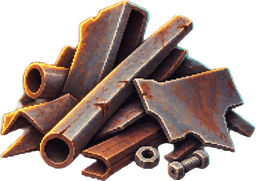
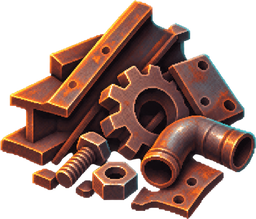
Base builder: fourth art batch (sandbag barricade with damaged/broken states, new bloater/stockpile/neon sign/scrap, three more landmarks)
Claude-Session: https://claude.ai/code/session_01EXCKSXSeTnr9cJgpaM1bsw

diff --git a/proto/base/index.html b/proto/base/index.html
@@ -88,7 +88,7 @@ for(const n of['gunman','shadow','brute','bomber','boss','elite'])SRC['z_'+n]='.
 for(const d of DIRS){SRC['walk_'+d]='../../sprites/warden/walk/'+d+'.png';SRC['rot_'+d]='../../sprites/warden/rot/'+d+'.png'}
 for(const a of['attack','attack2','attack3'])for(const d of['east','south-east'])SRC[a+'_'+d]='../../sprites/warden/'+a+'/'+d+'.png';
 // new art (ChatGPT set, cleaned into art/base): props/buildings/zombies; falls back to the old placeholders when missing
-const ART='../../art/base/',NEWP={a_genX:'03-generator-wrecked',a_wallD:'05-barricade-damaged',a_gateO:'14-gate-open',a_spikesW:'09-spikes-worn',a_relay:'x-power-pylon',a_junk2:'x-junk2',a_gen:'01-generator',a_wall:'04-barricade-intact',a_gate:'13-gate',a_mast:'17-radio-mast',a_clock:'42-street-clock',a_pylonF:'11-pylon-firing',a_parts:'26-pickup-parts',a_pylon:'11-pylon-tesla',a_lamp:'12-floodlight',a_spikes:'08-spikes-new',a_bench:'15-workbench',a_tent:'16-infirmary',a_stock:'18-stockpile',a_rubble:'33-rubble',a_sign:'35-neon-sign-fallen',a_tree:'38-skylight-tree',a_car:'39-car',a_junk:'41-junk',a_scrap:'25-pickup-scrap'};
+const ART='../../art/base/',NEWP={a_wallX:'06-barricade-broken',a_junk3:'x-junk3',a_rub2:'x-rubble-heap2',a_rub3:'x-rubble-heap3',a_genX:'03-generator-wrecked',a_wallD:'05-barricade-damaged',a_gateO:'14-gate-open',a_spikesW:'09-spikes-worn',a_relay:'x-power-pylon',a_junk2:'x-junk2',a_gen:'01-generator',a_wall:'07-wall-reinforced',a_gate:'13-gate',a_mast:'17-radio-mast',a_clock:'42-street-clock',a_pylonF:'11-pylon-firing',a_parts:'26-pickup-parts',a_pylon:'11-pylon-tesla',a_lamp:'12-floodlight',a_spikes:'08-spikes-new',a_bench:'15-workbench',a_tent:'16-infirmary',a_stock:'18-stockpile',a_rubble:'33-rubble',a_sign:'35-neon-sign-fallen',a_tree:'38-skylight-tree',a_car:'39-car',a_junk:'41-junk',a_scrap:'25-pickup-scrap'};
 for(const k in NEWP)SRC['p_'+k]=ART+NEWP[k]+'.png';
 const NEWZ={hound:'x-zombie-dog',walker:'19-zombie-walker',runner:'20-zombie-runner',brute:'21-zombie-brute',bloater:'22-zombie-bloater',boss:'24-zombie-rotking'};for(const k in NEWZ)SRC['nz_'+k]=ART+NEWZ[k]+'.png';
 SRC.ground=ART+'30-ground-concrete.png';SRC.fx_zburst=ART+'45-fx-zombie-burst.png';SRC.fx_bdust=ART+'46-fx-build-dust.png';
@@ -112,8 +112,8 @@ function overgrow(c,amt){const w=c.width,h=c.height;pixels(c,(a,i)=>{const l=.3*
 // zombie rot tint: grey-green flesh, keep glowing eyes
 function rot(c){return pixels(c,(a,i)=>{const r=a[i],gg=a[i+1],b=a[i+2],l=.3*r+.59*gg+.11*b;if(l>170&&r>200&&gg>120)return;a[i]=clamp(l*.62+r*.18,0,255);a[i+1]=clamp(l*.86+gg*.12+8,0,255);a[i+2]=clamp(l*.5+b*.15,0,255)})}
 
-const PROPH={a_genX:30,a_wallD:20,a_gateO:22,a_spikesW:12,a_relay:34,a_junk2:30,a_gen:34,a_wall:20,a_gate:22,a_mast:44,a_clock:42,a_pylonF:34,a_parts:9,a_pylon:34,a_lamp:38,a_spikes:12,a_bench:28,a_tent:32,a_stock:28,a_rubble:24,a_sign:22,a_tree:34,a_car:26,a_junk:30,a_scrap:9,hut:50,crates:19,pylon_p:32,pylon_c:32,chimney:40,gargoyle:30,planter:28,spire:46,tower:58,vent:22,sign:34,antenna:34};
-const PS={};const PROPW={a_genX:46,a_wallD:24,a_gateO:28,a_spikesW:17,a_relay:24,a_junk2:40,a_gen:46,a_wall:22,a_gate:28,a_mast:36,a_clock:28,a_pylonF:30,a_parts:11,a_pylon:20,a_lamp:16,a_spikes:17,a_bench:32,a_tent:34,a_stock:32,a_rubble:50,a_sign:52,a_tree:46,a_car:54,a_junk:40,a_scrap:10};
+const PROPH={a_wallX:16,a_junk3:30,a_rub2:24,a_rub3:24,a_genX:30,a_wallD:20,a_gateO:22,a_spikesW:12,a_relay:34,a_junk2:30,a_gen:34,a_wall:20,a_gate:22,a_mast:44,a_clock:42,a_pylonF:34,a_parts:9,a_pylon:34,a_lamp:38,a_spikes:12,a_bench:28,a_tent:32,a_stock:28,a_rubble:24,a_sign:22,a_tree:34,a_car:26,a_junk:30,a_scrap:9,hut:50,crates:19,pylon_p:32,pylon_c:32,chimney:40,gargoyle:30,planter:28,spire:46,tower:58,vent:22,sign:34,antenna:34};
+const PS={};const PROPW={a_wallX:24,a_junk3:40,a_rub2:50,a_rub3:50,a_genX:46,a_wallD:24,a_gateO:28,a_spikesW:17,a_relay:24,a_junk2:40,a_gen:46,a_wall:22,a_gate:28,a_mast:36,a_clock:28,a_pylonF:30,a_parts:11,a_pylon:20,a_lamp:16,a_spikes:17,a_bench:32,a_tent:34,a_stock:32,a_rubble:50,a_sign:52,a_tree:46,a_car:54,a_junk:40,a_scrap:10};
 const ZDEF={
   walker:{img:'gunman',h:28,nh:30,hp:34,spd:13,dmg:7,bd:8,r:5,rate:1,drop:[2,0],name:'Walker'},
   hound:{img:'shadow',h:16,nh:18,hp:14,spd:42,dmg:4,bd:4,r:4,rate:.55,drop:[1,0],name:'Hound'},
@@ -152,7 +152,7 @@ const BDEF={
   spike:{name:'Spikes',cost:[12,0],uses:36},
   pylon:{name:'Arc Pylon',cost:[22,12],hp:90,img:'a_pylon',old:'pylon_p',range:84,rate:.65,dmg:9},
   lamp:{name:'Lamp',cost:[10,8],hp:70,img:'a_lamp',old:'pylon_c',rad:74}};
-let builds=[],props=[];let core;const WIDE={a_junk2:2,a_mast:2,a_clock:1,a_car:3,a_rubble:3,a_sign:3,a_junk:2,a_tent:2,a_bench:2,a_stock:2,a_tree:3,tower:2,sign:2,antenna:2};const PN=n=>PS[n]?n:n==='a_pylon'?'pylon_p':n==='a_lamp'?'pylon_c':(n==='a_wall'||n==='a_gate')?'crates':n==='a_gen'?'hut':n;
+let builds=[],props=[];let core;const WIDE={a_junk3:2,a_rub2:3,a_rub3:3,a_junk2:2,a_mast:2,a_clock:1,a_car:3,a_rubble:3,a_sign:3,a_junk:2,a_tent:2,a_bench:2,a_stock:2,a_tree:3,tower:2,sign:2,antenna:2};const PN=n=>PS[n]?n:n==='a_pylon'?'pylon_p':n==='a_lamp'?'pylon_c':(n==='a_wall'||n==='a_gate')?'crates':n==='a_gen'?'hut':n;
 function placeB(k,x,y,free){const D=BDEF[k],b={k,tx:x,ty:y,x:x*TS+8,y:y*TS+8,hp:D.hp||1,max:D.hp||1,cd:rnd(),uses:D.uses||0,flash:0,born:T};grid[id(x,y)]=b;builds.push(b);return b}
 function buildMap(){
   // edge rubble ring with gaps at the four gates
@@ -166,7 +166,7 @@ function buildMap(){
   line(7,9,7,14);line(26,9,26,14);line(7,25,7,30);line(26,25,26,30);
   line(11,9,13,11);line(22,9,20,11);line(11,30,13,28);line(22,30,20,28);
   const land=(x,y,n)=>{const p={k:'ruin',tx:x,ty:y,img:n};grid[id(x,y)]=p;props.push(p);for(let i=1;i<(WIDE[n]||1);i++)if(inb(x+i,y)&&!grid[id(x+i,y)])grid[id(x+i,y)]={k:'ruin',tx:x+i,ty:y}};
-  land(2,3,'a_car');land(27,3,'a_junk');land(2,36,'a_junk2');land(27,36,'a_car');land(2,12,'a_tree');land(28,27,'a_tree');land(28,11,'a_sign');land(4,15,'a_clock');land(2,27,'a_rubble');
+  land(2,3,'a_car');land(27,3,'a_junk');land(2,36,'a_junk2');land(27,36,'a_car');land(2,12,'a_tree');land(28,27,'a_tree');land(28,11,'a_sign');land(27,23,'a_rub2');land(6,37,'a_rub3');land(8,3,'a_junk3');land(4,15,'a_clock');land(2,27,'a_rubble');
   // a starter barricade line near the core so the first look is a base, not an empty roof
   [[15,17],[18,17],[15,22],[18,22]].forEach(([x,y])=>placeB('wall',x,y));
   placeB('lamp',14,20);placeB('pylon',19,19);
@@ -335,7 +335,7 @@ let banT=0;function banner(t,s){$('banT').textContent=t;$('banS').textContent=s|
 let tipT=0;function tip(s){$('tip').textContent=s;$('tip').style.opacity=1;tipT=1.6}
 
 /* ---------- building tools ---------- */
-const TOOLS=[{k:'wall',img:'../../art/base/04-barricade-intact.png'},{k:'gate',img:'../../art/base/13-gate.png'},{k:'spike',img:'../../art/base/08-spikes-new.png'},{k:'pylon',img:'../../art/base/11-pylon-tesla.png'},{k:'lamp',img:'../../art/base/12-floodlight.png'},{k:'repair',img:'../../art/base/27-build-icons/02.png'},{k:'remove'}];
+const TOOLS=[{k:'wall',img:'../../art/base/07-wall-reinforced.png'},{k:'gate',img:'../../art/base/13-gate.png'},{k:'spike',img:'../../art/base/08-spikes-new.png'},{k:'pylon',img:'../../art/base/11-pylon-tesla.png'},{k:'lamp',img:'../../art/base/12-floodlight.png'},{k:'repair',img:'../../art/base/27-build-icons/02.png'},{k:'remove'}];
 function makeBar(){const bar=$('bar');bar.innerHTML='';for(const t of TOOLS){const b=document.createElement('button');b.className='bt';b.dataset.k=t.k;const D=BDEF[t.k];
   b.innerHTML=(t.img?'<img src="'+t.img+'">':'<span class="ico">'+(t.k==='spike'?'&#9650;&#9650;':t.k==='repair'?'&#9874;':'&#10005;')+'</span>')+'<b>'+(D?D.name:t.k==='repair'?'Repair':'Remove')+'</b>'+(D?'<em>'+D.cost[0]+(D.cost[1]?' + <u>'+D.cost[1]+'</u>':'')+'</em>':'<em>&nbsp;</em>');
   b.onclick=e=>{e.stopPropagation();pv=null;tool=tool===t.k?null:t.k;syncUI();if(tool)tip(tool==='repair'?'Tap a damaged building':tool==='remove'?'Tap a building to take it down':'Tap a spot in the gold square, then tap again');snd(660,.04,'triangle',.02)};bar.appendChild(b)}}
@@ -412,7 +412,7 @@ function render(){
   // y-sorted world
   const L=[];for(const p of props)L.push([p.ty*TS+14,0,p]);for(const b of builds)if(b.k!=='spike')L.push([b.y+6,1,b]);L.push([core.y,2,core]);for(const z of zs)L.push([z.y,3,z]);L.push([hero.y,4,hero]);L.sort((a,b)=>a[0]-b[0]);
   const ghost=pv&&tool===pv.k&&pv.k!=='spike'?pv:null;if(ghost)L.push([ghost.ty*TS+14,5,ghost]);L.sort((a,b)=>a[0]-b[0]);
-  for(const [,t,o] of L){if(t===5){g.globalAlpha=.6;drawProp(BDEF[o.k].img,o.tx*TS+8,o.ty*TS+14);g.globalAlpha=1;continue}if(t===0){const n=WIDE[o.img]||1;drawProp(o.img,o.tx*TS+n*TS/2,o.ty*TS+15,0,n)}else if(t===1){drawProp(o.k==='pylon'&&PS.a_pylonF&&T-(o.fireT||-9)<.14?'a_pylonF':o.k==='wall'&&PS.a_wallD&&o.hp<o.max*.5?'a_wallD':o.k==='gate'&&PS.a_gateO&&phase==='day'?'a_gateO':BDEF[o.k].img,o.x,o.y+6,o.flash,1);if(o.hp<o.max)bar(o.x,o.y-(PS[PN(BDEF[o.k].img)]||{h:20}).h+4,o.hp/o.max,12)}else if(t===2){drawProp(core.hp<core.max*.4&&PS.a_genX?'a_genX':'a_gen',core.x,core.y,core.flash,2)}else if(t===3)drawZ(o);else drawHero()}
+  for(const [,t,o] of L){if(t===5){g.globalAlpha=.6;drawProp(BDEF[o.k].img,o.tx*TS+8,o.ty*TS+14);g.globalAlpha=1;continue}if(t===0){const n=WIDE[o.img]||1;drawProp(o.img,o.tx*TS+n*TS/2,o.ty*TS+15,0,n)}else if(t===1){drawProp(o.k==='pylon'&&PS.a_pylonF&&T-(o.fireT||-9)<.14?'a_pylonF':o.k==='wall'&&PS.a_wallX&&o.hp<o.max*.25?'a_wallX':o.k==='wall'&&PS.a_wallD&&o.hp<o.max*.5?'a_wallD':o.k==='gate'&&PS.a_gateO&&phase==='day'?'a_gateO':BDEF[o.k].img,o.x,o.y+6,o.flash,1);if(o.hp<o.max)bar(o.x,o.y-(PS[PN(BDEF[o.k].img)]||{h:20}).h+4,o.hp/o.max,12)}else if(t===2){drawProp(core.hp<core.max*.4&&PS.a_genX?'a_genX':'a_gen',core.x,core.y,core.flash,2)}else if(t===3)drawZ(o);else drawHero()}
   // particles
   for(const p of parts_){g.fillStyle=p.c;g.fillRect(Math.round(p.x+ox),Math.round(p.y+oy),1,1)}
   // darkness with light holes

diff --git a/art/base/README.md b/art/base/README.md
@@ -13,8 +13,11 @@ Hamza: "use these in the builder regardless" of the style mismatch (isometric vs
 Third batch (28 Nov 2026): 03 generator wrecked (core under 40% hp), 05 barricade damaged (concrete/wire design; barricade under 50% hp),
 09 spikes worn (under half uses; the old 09 strip is now x-spike-strip), 14 gate open (Steel Gate by day), 15 workbench (new), 19 walker and 21 brute (new),
 25/26/29 re-cut from the labelled sheet, 27-build-icons-b (11 icons), 31/32 decals (v2 grids), x-rubble-kit 28-51, x-junk2 and x-power-pylon (camp/landmarks),
-x-gate-wood-marker (plank gate with placement marker, unused). Still missing: 02 generator damaged, 06 barricade broken, 23 riot zombie, 28 chevron,
+x-gate-wood-marker (plank gate with placement marker, unused). Still missing: 02 generator damaged, 23 riot zombie, 28 chevron,
 29 as a flat top-down texture, 34 water tower, 36 AC unit, 37 gargoyle, 40 laundry line.
+
+Fourth batch (28 Nov 2026): 07 sandbag wall (now the Barricade's intact look), 06 barricade broken (under 25% hp), 22 bloater, 25 scrap, 18 stockpile, 35 neon sign (all new),
+x-junk3, x-rubble-heap2/3 (landmarks), x-gate-badge (unused UI badge). Duplicates of earlier images were skipped.
 
 In use: 08 spikes, 10 pylon, 12 floodlight, 15 workbench, 16 infirmary, 18 stockpile (camp dressing), 19-22 and 24 zombies,
 25 scrap, 30 ground, 31/32 decals, 33/35/38/39/41 ruins, 44 dusk sky (intro card), 45/46 effects, x-rubble-kit (map edge).
